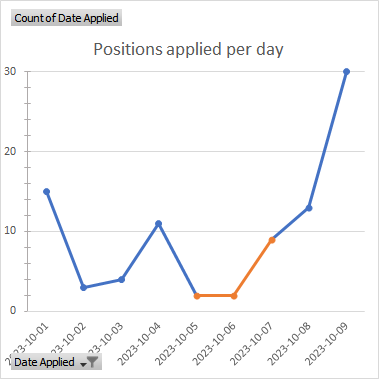
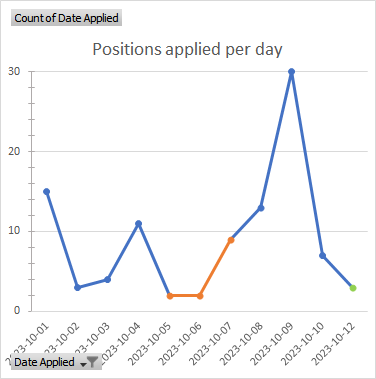
Added leetcode link, updated graphs

diff --git a/jobs.html b/jobs.html
@@ -94,7 +94,9 @@
 							<div class="box alt">
 								<div class="row gtr-uniform">
 									<div class="col-4"><span class="image fit"><figure><img src="images/jobs1.png" alt="" /><figcaption style="font-size: 0.8em;">
-										Orange points represent the days where I actively developed the website during my free time</figcaption></figure></span></div>
+										Orange points represent the days where I actively developed the website during my free time. Green is for the days where I actively
+										did Leetcode.
+										<form action=""></form></figcaption></figure></span></div>
 									<div class="col-4"><span class="image fit"><figure><img src="images/jobs2.png" alt="" /><figcaption style="font-size: 0.8em;">
 										I try to focus more on entry-level, full time jobs because internships more often than not require applicants to be enrolled
 										in either a co-op program or be enrolled in school.</figcaption></figure></span></div>

diff --git a/index.html b/index.html
@@ -377,6 +377,7 @@
 												<li><a href="https://github.com/hollow-earth/" target="_blank" class="icon brands fa-github"><span class="label">GitHub</span></a></li>
 												<li><a href="https://gitlab.com/hollow-earth/" class="icon brands fa-gitlab" target="_blank"><span class="label">GitLab</span></a></li>
 												<li><a href="https://www.linkedin.com/in/samuel-careau/" class="icon brands fa-linkedin-in" target="_blank"><span class="label">LinkedIn</span></a></li>
+												<li><a href="https://leetcode.com/hollow-earth/" target="_blank" class="icon solid fa-code"><span class="label">Leetcode</span></a></li>
 											</ul>
 										</li>
 										<li>
